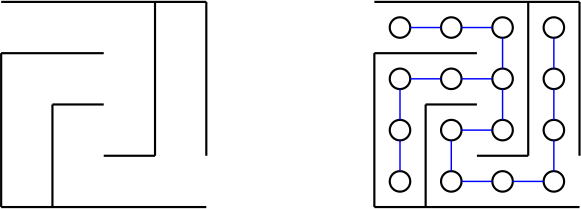
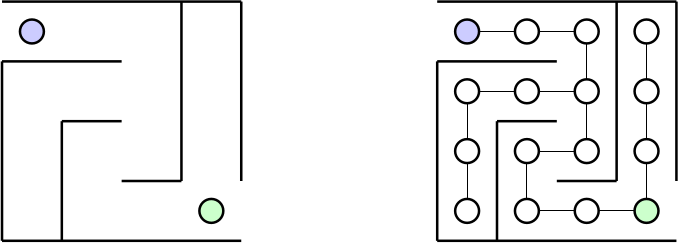
Modified maze image in graph traversal article

diff --git a/src/pages/algo/structure/graphe/parcours.html b/src/pages/algo/structure/graphe/parcours.html
@@ -178,7 +178,7 @@ function toggle_visibility(id) {
 
 <a href=""><h1 id="parcours-dun-graphe">Parcours d'un graphe</h1></a>
 <p>Publi&#233; le : 07/12/2015<br />
-<em>Modifi&#233; le : 10/12/2015</em></p>
+<em>Modifi&#233; le : 12/12/2015</em></p>
 <ul id="summary">
 <li><a href="#introduction">Introduction</a></li>
 <li><a href="#le-parcours-en-profondeur">Le parcours en profondeur</a></li>
@@ -188,7 +188,7 @@ function toggle_visibility(id) {
 <h2 id="introduction">Introduction</h2>
 <p>Le parcours d'un <a href="/algo/structure/graphe.html">graphe</a> est une op&#233;ration essentielle &#224; conna&#238;tre &#224; propos de cette structure. Il est fondamental de maitriser les diff&#233;rents algorithmes de parcours de graphe, ainsi que leur application et surtout savoir quand les utiliser en fonction de la situation.</p>
 <h2 id="le-parcours-en-profondeur">Le parcours en profondeur</h2>
-<p>Vous vous trouvez dans un labyrinthe contenant de nombreux chemins possibles, et vous cherchez la sortie alors que vous ne connaissez aucunes indications sur ce labyrinthe. Tout d'abord, on peut repr&#233;senter notre labyrinthe comme un graphe dit <em>implicite</em>, qui sera non pond&#233;r&#233; (chaque arc aura alors une distance de <em>1</em> unit&#233;). En effet, chaque intersection sera repr&#233;sent&#233;e par un n&#339;ud du graphe, et chaque chemin par un arc. L'entr&#233;e et la sortie du labyrinthe sont juste de simples n&#339;uds distincts du graphe, et le fait de trouver la sortie du labyrinthe, revient &#224; trouver un chemin reliant le n&#339;ud d'entr&#233;e au n&#339;ud de sortie.</p>
+<p>Vous vous trouvez dans un labyrinthe contenant de nombreux chemins possibles, et vous cherchez la sortie alors que vous ne connaissez aucunes indications sur ce labyrinthe. Tout d'abord, on peut repr&#233;senter notre labyrinthe comme un graphe dit <em>implicite</em>, qui sera non pond&#233;r&#233; (chaque arc aura alors une distance de <em>1</em> unit&#233;). En effet, chaque intersection sera repr&#233;sent&#233;e par un n&#339;ud du graphe, et chaque chemin par un arc. L'entr&#233;e et la sortie du labyrinthe sont juste de simples n&#339;uds distincts du graphe, et le fait de trouver la sortie du labyrinthe, revient &#224; trouver un chemin reliant le n&#339;ud d'entr&#233;e au n&#339;ud de sortie :</p>
 <div class="figure">
 <img src="//static.napnac.ga/img/algo/structure/graphe/dfs/labyrinthe_graphe.png" alt="Exemple de repr&#233;sentation d&#39;un labyrinthe sous forme de graphe" />
 <p class="caption">Exemple de repr&#233;sentation d'un labyrinthe sous forme de graphe</p>

diff --git a/articles/algorithme/structure_donnees/graphe/parcours/parcours_image.tex b/articles/algorithme/structure_donnees/graphe/parcours/parcours_image.tex
@@ -21,6 +21,8 @@
 \draw[very thick] (-0.5,-2) -- (-0.5,-3);
 \draw[very thick] (0,-2.5) -- (0.5,-2.5);
 \draw[very thick] (0.5,-1) -- (0.5,-2.5);
+\draw[very thick, fill = blue!20] (-0.75,-1.25) circle (0.1);
+\draw[very thick, fill = green!20] (0.75,-2.75) circle (0.1);
 \end{tikzpicture}
 \hspace{3cm}
 \begin{tikzpicture}[scale = 2]
@@ -33,7 +35,7 @@
 \draw[very thick] (-0.5,-2) -- (-0.5,-3);
 \draw[very thick] (0,-2.5) -- (0.5,-2.5);
 \draw[very thick] (0.5,-1) -- (0.5,-2.5);
-\draw[very thick] (-0.75,-1.25) circle (0.1);
+\draw[very thick, fill = blue!20] (-0.75,-1.25) circle (0.1);
 \draw[very thick] (-0.25,-1.25) circle (0.1);
 \draw[very thick] (0.25,-1.25) circle (0.1);
 \draw[very thick] (0.75,-1.25) circle (0.1);
@@ -48,22 +50,22 @@
 \draw[very thick] (-0.75,-2.75) circle (0.1);
 \draw[very thick] (-0.25,-2.75) circle (0.1);
 \draw[very thick] (0.25,-2.75) circle (0.1);
-\draw[very thick] (0.75,-2.75) circle (0.1);
-\draw[thick, blue] (-0.65,-1.25) -- (-0.35,-1.25);
-\draw[thick, blue] (-0.15,-1.25) -- (0.15,-1.25);
-\draw[thick, blue] (-0.65,-1.75) -- (-0.35,-1.75);
-\draw[thick, blue] (-0.15,-1.75) -- (0.15,-1.75);
-\draw[thick, blue] (-0.15,-2.25) -- (0.15,-2.25);
-\draw[thick, blue] (-0.15,-2.75) -- (0.15,-2.75);
-\draw[thick, blue] (0.35,-2.75) -- (0.65,-2.75);
-\draw[thick, blue] (-0.75,-1.85) -- (-0.75,-2.15);
-\draw[thick, blue] (-0.75,-2.35) -- (-0.75,-2.65);
-\draw[thick, blue] (-0.25,-2.35) -- (-0.25,-2.65);
-\draw[thick, blue] (0.25,-1.35) -- (0.25,-1.65);
-\draw[thick, blue] (0.25,-1.85) -- (0.25,-2.15);
-\draw[thick, blue] (0.75,-1.35) -- (0.75,-1.65);
-\draw[thick, blue] (0.75,-1.85) -- (0.75,-2.15);
-\draw[thick, blue] (0.75,-2.35) -- (0.75,-2.65);
+\draw[very thick, fill = green!20] (0.75,-2.75) circle (0.1);
+\draw[thin, black] (-0.65,-1.25) -- (-0.35,-1.25);
+\draw[thin, black] (-0.15,-1.25) -- (0.15,-1.25);
+\draw[thin, black] (-0.65,-1.75) -- (-0.35,-1.75);
+\draw[thin, black] (-0.15,-1.75) -- (0.15,-1.75);
+\draw[thin, black] (-0.15,-2.25) -- (0.15,-2.25);
+\draw[thin, black] (-0.15,-2.75) -- (0.15,-2.75);
+\draw[thin, black] (0.35,-2.75) -- (0.65,-2.75);
+\draw[thin, black] (-0.75,-1.85) -- (-0.75,-2.15);
+\draw[thin, black] (-0.75,-2.35) -- (-0.75,-2.65);
+\draw[thin, black] (-0.25,-2.35) -- (-0.25,-2.65);
+\draw[thin, black] (0.25,-1.35) -- (0.25,-1.65);
+\draw[thin, black] (0.25,-1.85) -- (0.25,-2.15);
+\draw[thin, black] (0.75,-1.35) -- (0.75,-1.65);
+\draw[thin, black] (0.75,-1.85) -- (0.75,-2.15);
+\draw[thin, black] (0.75,-2.35) -- (0.75,-2.65);
 \end{tikzpicture}
 
 % DFS : exemple

diff --git a/articles/algorithme/structure_donnees/graphe/parcours/parcours.md b/articles/algorithme/structure_donnees/graphe/parcours/parcours.md
@@ -3,7 +3,7 @@ Parcours d'un graphe
 algo/structure/graphe/
 
 Publié le : 07/12/2015  
-*Modifié le : 10/12/2015*
+*Modifié le : 12/12/2015*
 
 ## Introduction
 
@@ -11,7 +11,7 @@ Le parcours d'un [graphe](/algo/structure/graphe.html) est une opération essent
 
 ## Le parcours en profondeur
 
-Vous vous trouvez dans un labyrinthe contenant de nombreux chemins possibles, et vous cherchez la sortie alors que vous ne connaissez aucunes indications sur ce labyrinthe. Tout d'abord, on peut représenter notre labyrinthe comme un graphe dit *implicite*, qui sera non pondéré (chaque arc aura alors une distance de *1* unité). En effet, chaque intersection sera représentée par un nœud du graphe, et chaque chemin par un arc. L'entrée et la sortie du labyrinthe sont juste de simples nœuds distincts du graphe, et le fait de trouver la sortie du labyrinthe, revient à trouver un chemin reliant le nœud d'entrée au nœud de sortie.
+Vous vous trouvez dans un labyrinthe contenant de nombreux chemins possibles, et vous cherchez la sortie alors que vous ne connaissez aucunes indications sur ce labyrinthe. Tout d'abord, on peut représenter notre labyrinthe comme un graphe dit *implicite*, qui sera non pondéré (chaque arc aura alors une distance de *1* unité). En effet, chaque intersection sera représentée par un nœud du graphe, et chaque chemin par un arc. L'entrée et la sortie du labyrinthe sont juste de simples nœuds distincts du graphe, et le fait de trouver la sortie du labyrinthe, revient à trouver un chemin reliant le nœud d'entrée au nœud de sortie : 
 
 ![Exemple de représentation d'un labyrinthe sous forme de graphe](//static.napnac.ga/img/algo/structure/graphe/dfs/labyrinthe_graphe.png)
 
